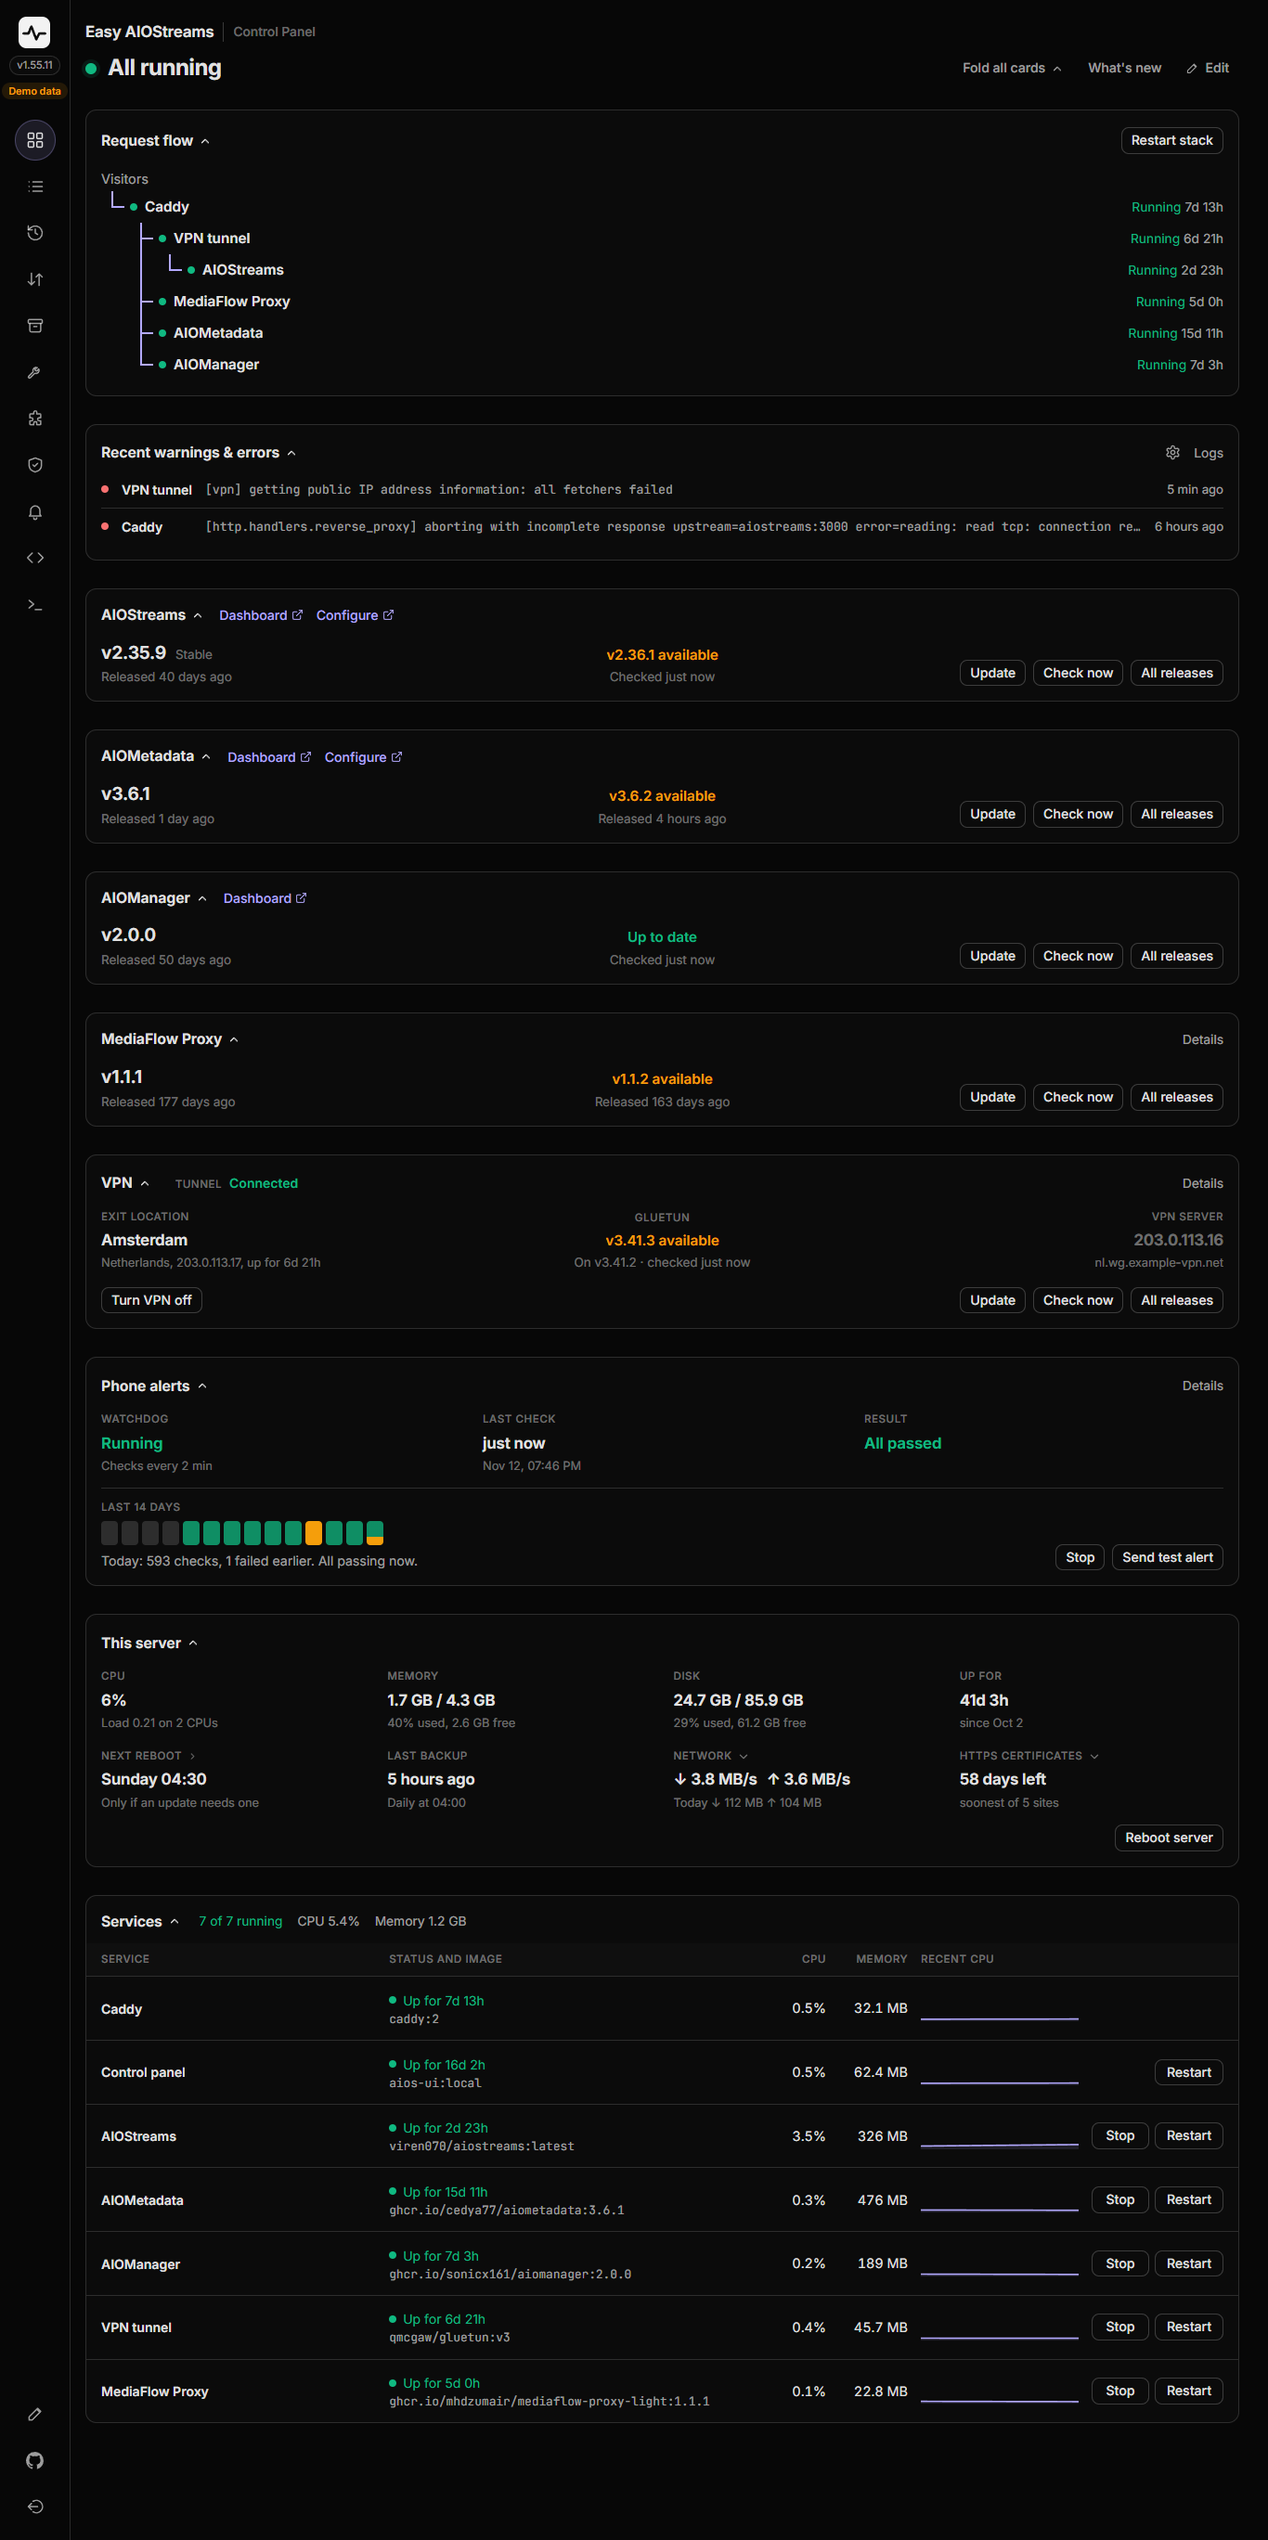
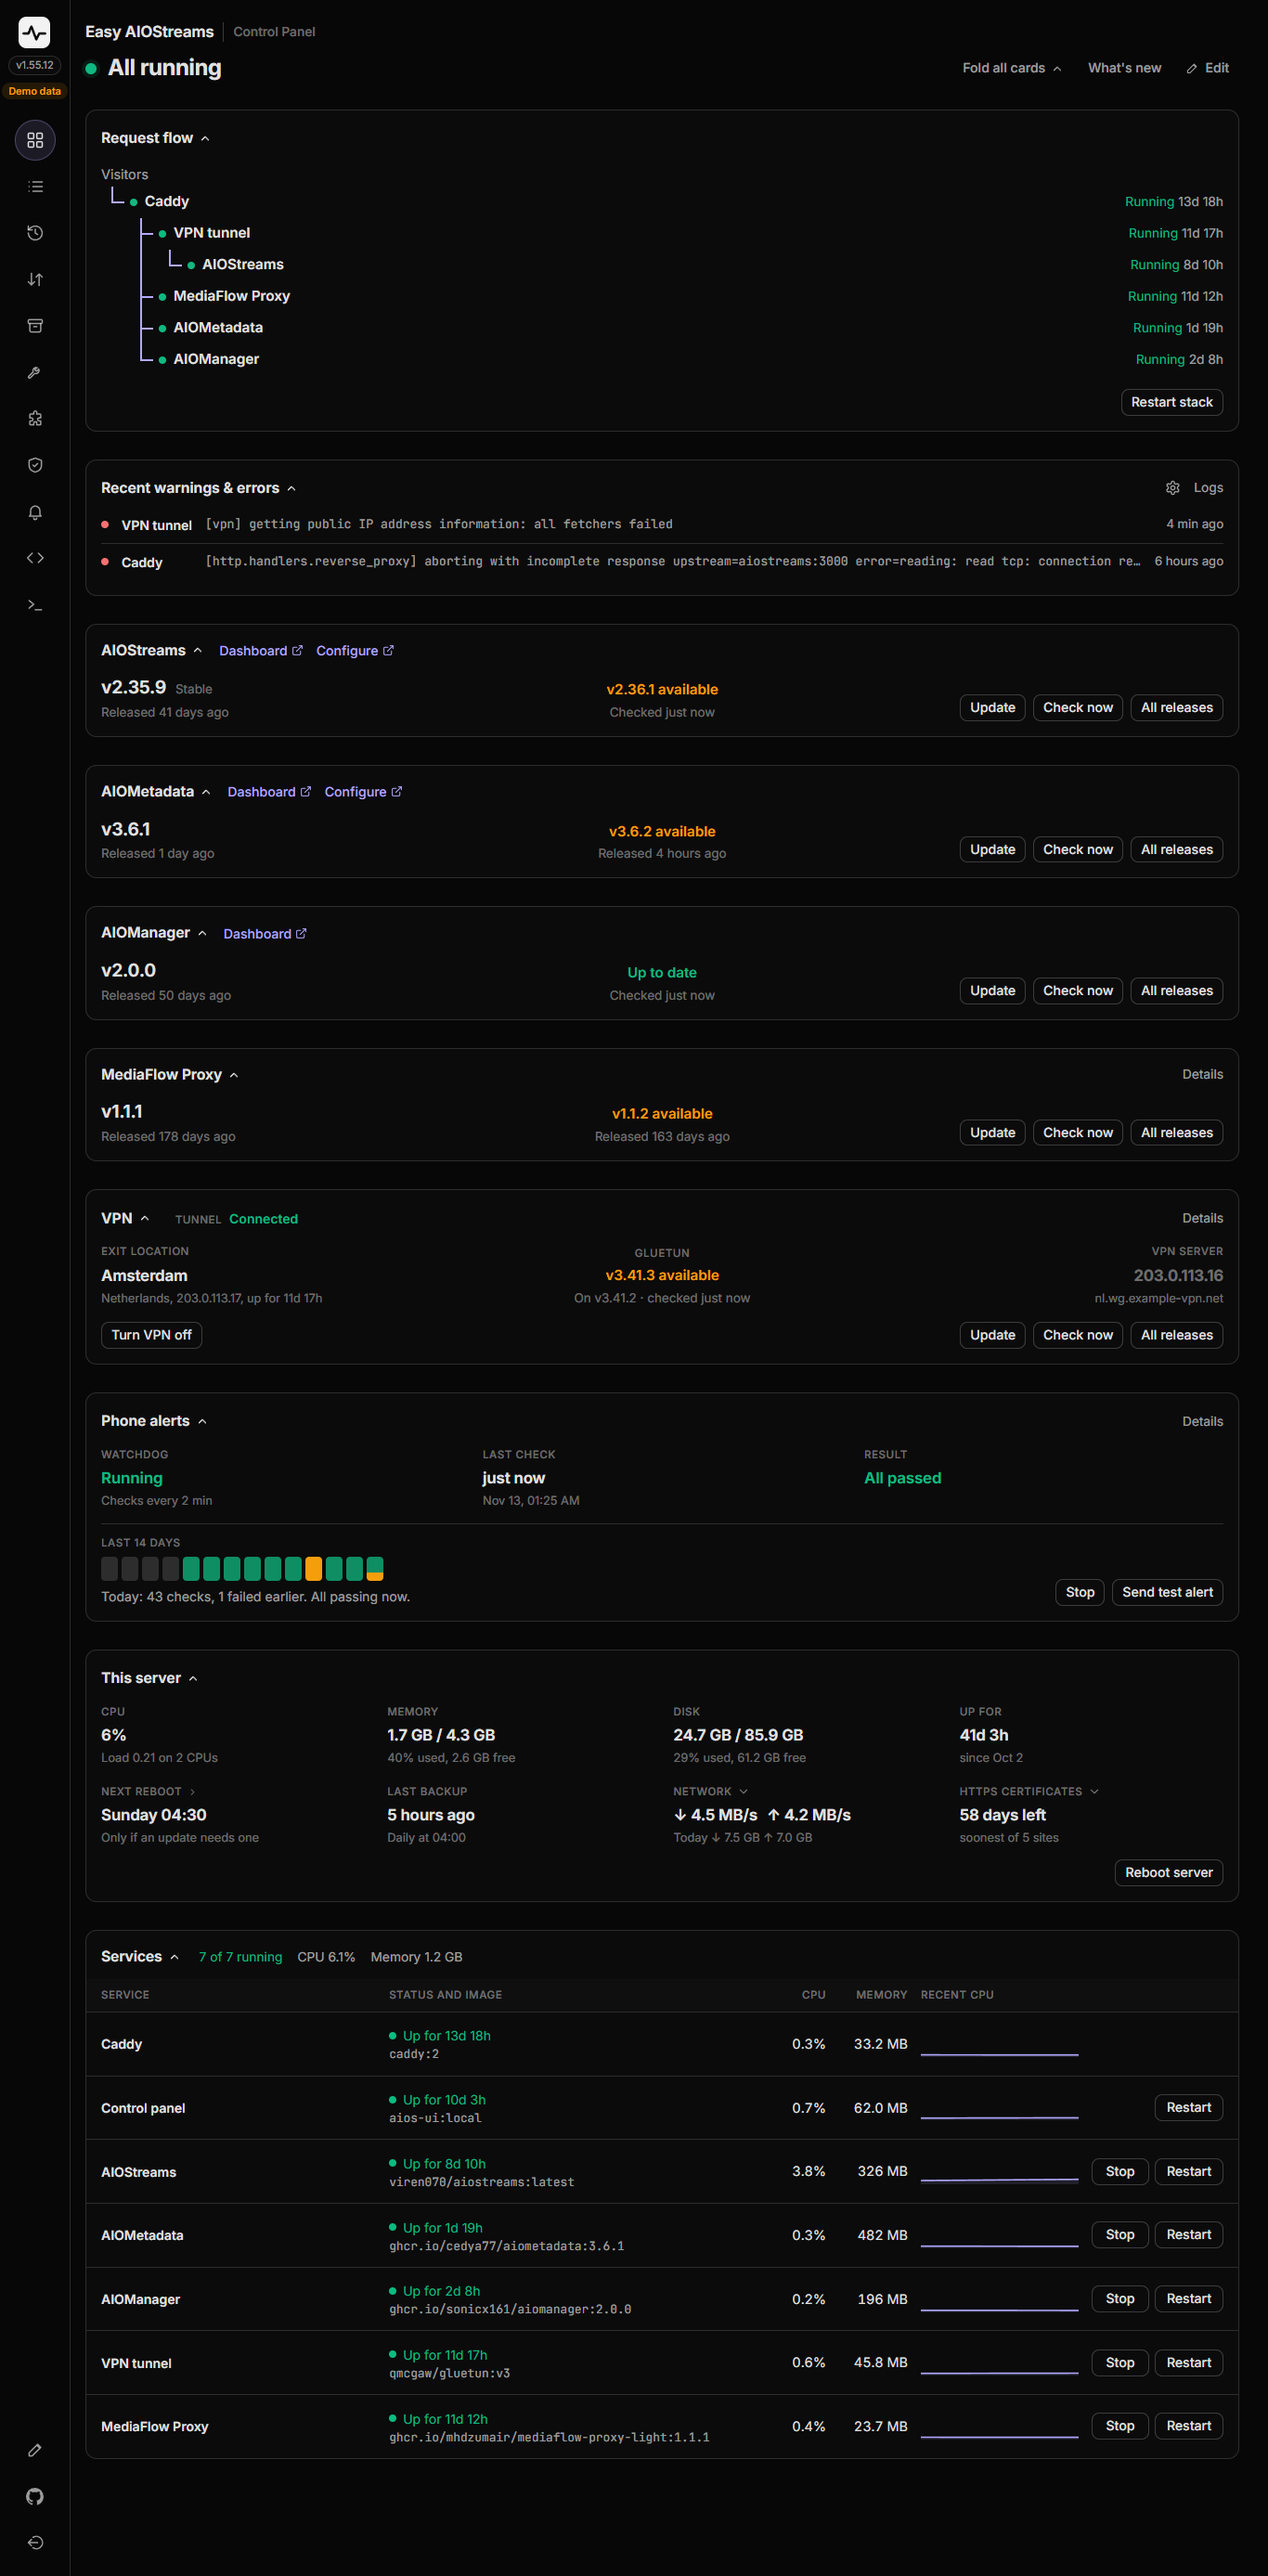
Panel 1.55.12: Restart stack under the flow, Reboot server on folded This server

diff --git a/control-panel/web/js/overview.js b/control-panel/web/js/overview.js
@@ -562,7 +562,9 @@ function path(st) {
       h("li", { class: "t-root" }, h("div", { class: "t-row t-start", text: "Visitors" }),
         main.length ? h("ul", {}, after(0, true)) : null));
     el.append(tree);
-    head.append(restartBtn());
+    // Under the flow at the bottom right, like Reboot server on This server
+    const b = restartBtn();
+    if (b) el.append(h("div", { class: "path-acts" }, b));
   });
   for (const s of svcs) setText(el, `[data-up="${s.key}"]`, uptime(s));
 }
@@ -837,7 +839,9 @@ function side(st) {
   const hostFolded = isFolded("server");
   const host = h("section", { class: "panel host" + (hostFolded ? " folded" : "") },
     h("div", { class: "card-head" }, h("h3", {}, foldTitle("server", "This server"))));
-  if (hostFolded) host.firstChild.append(hostSum(st));
+  // Folded, Reboot server stays as a quiet link in the corner, as Restart stack does on the flow
+  if (hostFolded) host.firstChild.append(hostSum(st),
+    foldAct(h("button", { class: "btn small danger", type: "button", text: "Reboot server", onclick: rebootServer })));
   const grid = h("div", { class: "stat-grid" });
   // Top row: what you look at first. What folds out (Network, certificates) is on the
   // bottom row, so it opens under the values

diff --git a/control-panel/web/css/app.css b/control-panel/web/css/app.css
@@ -335,6 +335,7 @@ button.chip:hover { text-decoration: underline; }
 .folded .btn.fold-act { background: none; border: 0; padding: 0; min-height: 0; font-size: .86rem; font-weight: 400; color: var(--dim); box-shadow: none; }
 .folded .btn.fold-act:hover:not(:disabled) { color: var(--text); text-decoration: underline; background: none; }
 .ver-card.folded .ver-head > .btn.fold-act { margin-left: auto; }
+.panel.folded .card-head > .btn.fold-act { margin-left: auto; }
 /* Until the first status reading draws it, so empty card frames never flash up */
 #view-overview:not(.drawn) { visibility: hidden; }
 .sec-head { display: flex; align-items: center; gap: 12px; margin: 0 0 12px; }
@@ -715,6 +716,7 @@ select.input[aria-expanded="true"] { border-color: var(--accent); box-shadow: 0 
 .t-row[data-s="starting"] .t-state .word, .t-row[data-s="paused"] .t-state .word { color: var(--warn); }
 .t-start { color: var(--dim); font-size: .9rem; justify-content: flex-start; min-height: 26px; }
 .path-head .btn { margin-left: auto; }
+.path-acts { display: flex; justify-content: flex-end; margin-top: 14px; }
 @media (max-width: 720px) {
   .flow-tree ul { padding-left: 5px; }
   .flow-tree ul > li { padding-left: 12px; }

diff --git a/docs/advanced/control-panel.md b/docs/advanced/control-panel.md
@@ -117,7 +117,7 @@ Once a minute, whether or not the panel is open, it reads two sets of byte count
 
 The Overview's **This server** shows the server's speed now and today's totals as its **Network** value. Its arrow opens a list with All traffic first, then each service's speed in the same order as By service, with a link here.
 
-Its figures are worked out the way AIOStreams' own dashboard does them, so the two pages agree: **CPU** is how busy all the cores were over the last few seconds, with Linux's load average under it, and every size and speed in the panel counts KB, MB and GB in thousands. On desktop, This server is two rows of four values, ending with Last backup, **Next reboot** (the [scheduled server reboot](#maintenance-page), its label a link to Maintenance) and HTTPS certificates, then **Reboot server** on a line of its own. The certificates open in a section of their own below the values, folded to the soonest one unless one needs a look. On phones the values are one per line, the certificates last so their list opens straight under them. Memory and Disk read used / total (`1.7 GB / 4.3 GB`), with the percentage and what's free under them. Folded, the card keeps CPU, memory (used / total), disk and the network's speed now on its one line, plus a certificate or backup that needs a look.
+Its figures are worked out the way AIOStreams' own dashboard does them, so the two pages agree: **CPU** is how busy all the cores were over the last few seconds, with Linux's load average under it, and every size and speed in the panel counts KB, MB and GB in thousands. On desktop, This server is two rows of four values, ending with Last backup, **Next reboot** (the [scheduled server reboot](#maintenance-page), its label a link to Maintenance) and HTTPS certificates, then **Reboot server** on a line of its own. The certificates open in a section of their own below the values, folded to the soonest one unless one needs a look. On phones the values are one per line, the certificates last so their list opens straight under them. Memory and Disk read used / total (`1.7 GB / 4.3 GB`), with the percentage and what's free under them. Folded, the card keeps CPU, memory (used / total), disk and the network's speed now on its one line, plus a certificate or backup that needs a look, and Reboot server as a quiet link in its corner.
 
 In **Services**, each service's **CPU** is on the same scale: its share of the whole server, from the panel's last look a few seconds ago. So 100% is the whole machine, and the rows add up to roughly This server's CPU. (Docker itself counts 100% per core, where a busy service can read over 100%.) A service's CPU turns amber at 75% and red at 90%, only after three readings in a row, so a short burst such as skipping through a video never colours it. **Recent CPU** draws the last couple of minutes. On a phone, where the columns don't fit, each service's CPU and memory sit under its name, without the graph. Folded, Services shows how many are running, then the CPU and memory of them all together (a line of their own on a phone).
 

diff --git a/CHANGELOG.md b/CHANGELOG.md
@@ -2,6 +2,10 @@
 
 Notable changes to easy-aiostreams, newest first. Control panel versions are in brackets. Each entry links to its pull request for the full detail.
 
+## 13 November 2026
+
+- **New:** the request flow's Restart stack sits under the flow at the bottom right, as Reboot server does on This server, instead of beside the title. Folded, This server keeps Reboot server as a quiet link in its corner, as the request flow does with Restart stack. (Panel 1.55.12, [#177](https://github.com/alpinezx/easy-aiostreams/pull/177))
+
 ## 12 November 2026
 
 - **New:** Stop, Remove, Reboot server and the like look like every other button, with no red edge. They all ask first, and the dialog's red button is the warning. Services drops its Logs buttons (the Logs page and Recent warnings have them) and lists services by their buttons, so they line up: none, then Restart, then Stop and Restart, with AIOStreams and the other AIOs together, then the VPN tunnel, then any other add-on. The VPN tunnel's row gets Stop (Turn VPN off) and Restart (Restart stack, as the VPN can't restart on its own), each saying so, and stays listed while off, with Start. Recent warnings leaves out lines logged during the panel's own actions (Restart stack, updates, VPN switches, backups) and a minute after, such as the tunnel not reaching Caddy while it restarts; the Logs page keeps them. Its Recent CPU graph is wider on desktop and shows about 3.5 minutes. Screenshots retaken. (Panel 1.55.11, [#176](https://github.com/alpinezx/easy-aiostreams/pull/176))
